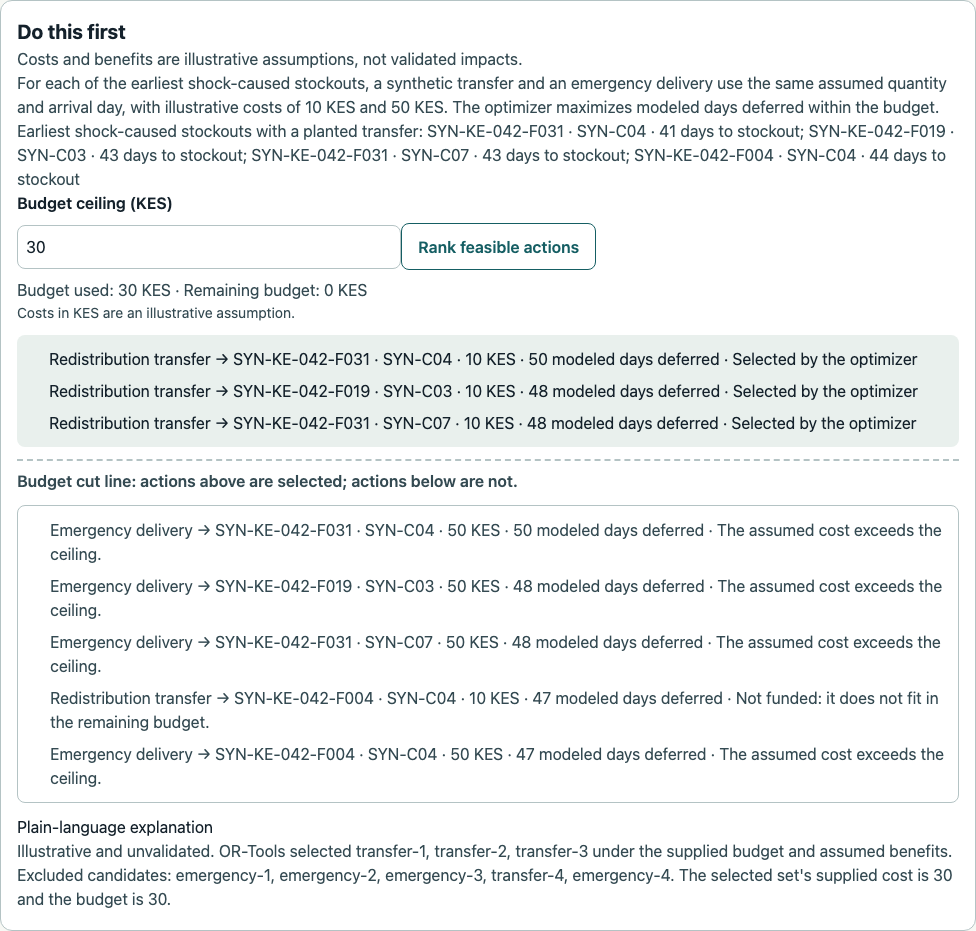
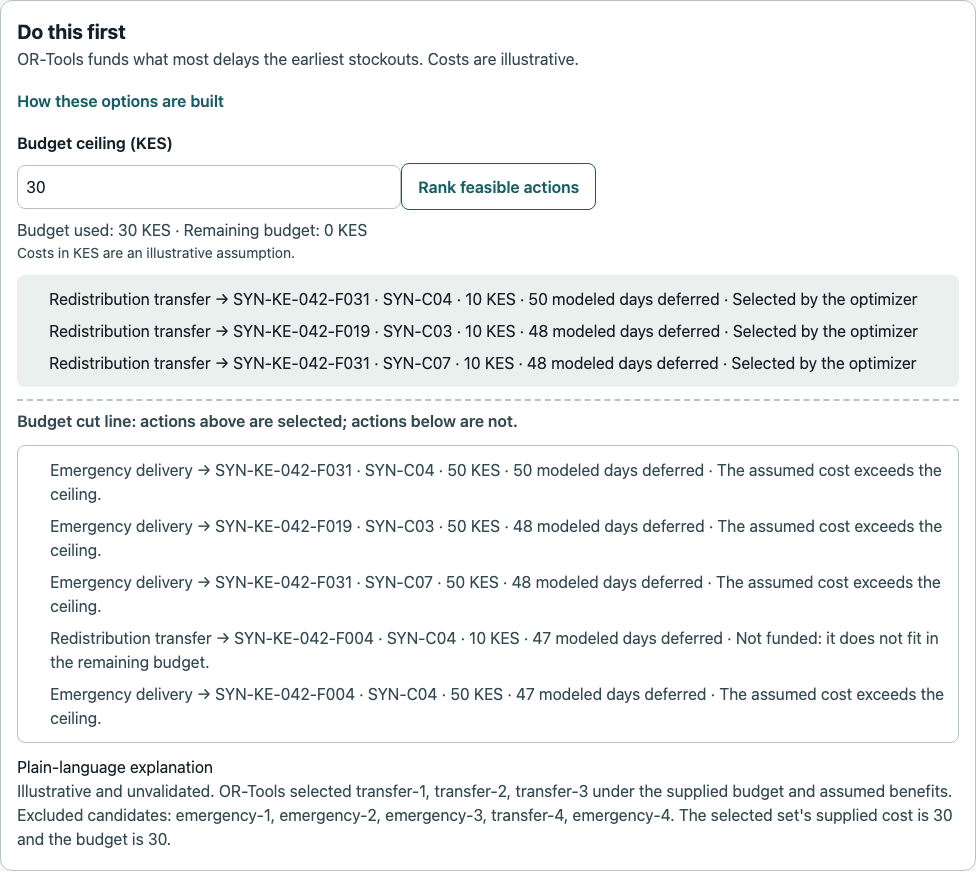
test: update browser checks and README for the new risk cutoffs

Changed region(s): [[0.0, 0.031, 0.9836, 0.992]]

diff --git a/apps/web/tests/e2e/kisumu.spec.ts b/apps/web/tests/e2e/kisumu.spec.ts
@@ -25,7 +25,7 @@ test("Kisumu map follows the selected synthetic scenario", async ({
   );
   await expect(
     page.getByRole("region", { name: "Illustrative stockout risk" }),
-  ).toContainText("8–30 days");
+  ).toContainText("46–52 days");
   await page
     .getByRole("heading", { name: "Facility locations are synthetic." })
     .scrollIntoViewIfNeeded();
@@ -52,7 +52,7 @@ test("Kisumu map follows the selected synthetic scenario", async ({
   );
   await expect(watch).toHaveAttribute(
     "aria-label",
-    /Watch · 26 days to stockout/,
+    /Critical · 26 days to stockout/,
     {
       timeout: 30000,
     },

diff --git a/docs/PROGRESS.md b/docs/PROGRESS.md
@@ -10,6 +10,8 @@ Gitleaks v8.30.1 via Docker scanned 113 commits across all refs and a copy of tr
 
 ## Phase 3: Frontend — current
 
+- Phase 3 risk cutoffs, 2026-11-08 (commits `95b8384`…): measured three candidates on real version 5 runs (seed 42) at 0/20/40/100%; none met the user's criteria (Stable at 40% was 3 or fewer). The user approved Critical ≤45, Watch 46–52, Stable >52, which gives 2/0/38, 2/5/33, 10/18/12 and 40/0/0 Critical/Watch/Stable. `RISK_THRESHOLDS` remains the only definition; the legend adds that labels are relative to the 90-day horizon and the cutoffs were tuned for readability and are not a standard, keeping “illustrative thresholds, not clinical or operational standards”. Facilities in the run's pre-shock or no-shock stockouts (F001, F003) show “Already short before the shock” in the marker tooltip and facility panel. The map fits all markers with padding that clears the zoom and attribution controls and refits on resize (before: five markers at 1280 px sat under the attribution). The “Do this first” intro is two lines at 390 px and one line from 768 px, with assumptions and targets under “How these options are built”; ranked-panel placeholder heights were re-measured, adding a 1280 px step. Vitest 113 passed. After `demo-down.sh` and `demo-up.sh` on the new build: **Playwright 56 tests**, 53 passed in the full run and the 3 that failed on HTTP 429 rate limits passed on rerun (new checks: every marker inside the map and clear of controls at four widths; intro within two lines). **Lighthouse page load:** `/` and `/kisumu` 1.00 performance, 1.00 accessibility, 0.96 best practices. **Interactive flow (one run):** performance 1.00, CLS 0.001, TBT 30 ms, INP 100 ms. The rendered map at 40% counted 10 Critical, 18 Watch and 12 Stable markers, matching the backend computation. README screenshots recaptured (ranked fix, shock card, mobile tour, new map at 40%) and numbers updated. Open: markers within a cluster overlap at county zoom, so the map shows about seven visible markers; the full suite now exceeds the 600-per-minute demo limit at times; Swahili strings for the new labels need review. Session left running at http://localhost:3300/.
+
 - Phase 3: changed the shared illustrative risk cutoffs (`RISK_THRESHOLDS`, the only definition; legend and marker tooltips derive from it) to Critical ≤45 days, Watch 46–75, Stable >75, keeping the “illustrative thresholds, not clinical or operational standards” wording; data assumptions updated. Vitest 109 passed with boundary tests at 45/46/75/76 and the Swahili legend. **Spread check on real version 5 backend runs** (seed 42, classified with the app's `risksForRun`): 0% — 2 Critical, 38 Stable; 20% — 2 Critical, 17 Watch, 21 Stable; 40% — 10 Critical, 28 Watch, 2 Stable; 100% — 40 Critical. 0% is not all Stable because the planted pre-shock cases are Critical by design (SYN-KE-042-F001 opens with 0 units of SYN-C01; SYN-KE-042-F003 runs out of SYN-C01 on day 6). At 40% only 2 of 40 facilities stay Stable. Reported to the user before continuing; map bounds, the shorter “Do this first” intro, Playwright, Lighthouse and README screenshots are on hold pending their decision.
 
 - Version 5 end-to-end check, 2026-11-08: stopped the user's demo session with the user's permission, started the rebuilt worker, ran `scripts/demo-up.sh` with the rebuilt API, and seeded county generator version 5 (seed 42; 47 planning and 1 pilot snapshots created; older versions remain). The proxy served four planted routes with the first on SYN-KE-042-F031 · SYN-C04. **Playwright 48/48** at four viewports after one data-driven expectation update: at a 100% shock, facility 004 is still Watch but now runs out on day 26 (was day 30 with version 4). **Lighthouse page load:** `/` and `/kisumu` performance 1.00, accessibility 1.00, best practices 0.96. **Interactive ranked flow (one run):** timespan performance 1.00, best practices 0.95, CLS 0.001, TBT 0 ms, INP 30 ms; end snapshot accessibility 1.00, best practices 1.00. Recaptured the ranked-fix, shock-summary and mobile-tour README screenshots from this session; README numbers (211 vs 2, 209 shock-caused, first on day 41, busiest days 71–77, 30/100/5 KES outcomes) were checked against the real backend. The session was left running for the user's review.

diff --git a/README.md b/README.md
@@ -34,6 +34,8 @@ All screens show synthetic data; every number is illustrative and unvalidated.
 | Funding trace: 100,000 KES approved, not released, 90 days | Shock summary at 40%: first stockout and busiest week |
 | ![Guided demo on a phone](docs/screenshots/readme-tour-mobile-390.png) | ![Bin-card capture awaiting human confirmation](docs/screenshots/readme-capture-confirm-390.png) |
 | Guided demo at 390 px | Bin-card capture: nothing is saved until “Confirm and save” |
+| ![Kisumu facility map at a 40% shock with the risk legend](docs/screenshots/readme-map-40-1280.png) | |
+| Facility map at 40%: 10 Critical, 18 Watch, 12 Stable (overlapping markers per cluster) | |
 
 ## Local quickstart
 
@@ -67,8 +69,8 @@ The health response identifies the synthetic-data policy. API documentation is a
 Start at `http://localhost:3300/` and press **Try the 3-minute demo**. Each step has a caption, **Back**, **Next step** and **Exit demo**; Escape also exits. The demo only navigates, applies the 40% shock, presses Rank once and switches to the facility role for capture; everything shown comes from the normal screens.
 
 1. **National overview (≈20 s).** “Forty-seven counties on a schematic grid, not a map. Every value is synthetic and illustrative.”
-2. **Kisumu pilot (≈20 s).** “Kisumu is the only facility-level pilot: forty invented facilities at invented locations. Risk uses shape and text, not only color.”
-3. **Apply a 40% shock (≈20 s).** “Donor logistics support drops by 40% and the county model reruns.”
+2. **Kisumu pilot (≈20 s).** “Kisumu is the only facility-level pilot: forty invented facilities at invented locations. With no shock, 38 are Stable; the two Critical ones are labeled ‘Already short before the shock’. Risk uses shape and text, not only color.”
+3. **Apply a 40% shock (≈20 s).** “Donor logistics support drops by 40% and the county model reruns: 10 facilities are now Critical, 18 Watch and 12 Stable.”
 4. **First stockout (≈30 s).** “A one-line summary: at 40%, 211 stockouts against 2 with no shock, 209 caused by the shock. The first is SYN-KE-042-F031 running out of SYN-C04 on day 41; the most fall in days 71–77. The full order is one click away. Act on the earliest first.”
 5. **Funding trace (≈30 s).** “One synthetic flow: 100,000 KES approved but not released, waiting 90 days.”
 6. **Ranked fix (≈40 s).** “For each of the four earliest shock-caused stockouts, OR-Tools compares a 10 KES transfer from a nearby facility with a 50 KES emergency delivery, maximizing modeled days deferred within a 30 KES ceiling. It funds three transfers; the fourth sits below the cut line because it no longer fits the remaining budget, and every emergency delivery costs more than the ceiling. Costs are assumptions, and the explanation only restates the optimizer's result.”
@@ -90,6 +92,7 @@ See [agent rules](AGENTS.md), [current progress](docs/PROGRESS.md), [design appr
 - **Language.** Swahili strings, and the English-only optimizer explanation, need native-speaker review.
 - **No production sign-in.** The demo uses a server-side proxy with a privileged synthetic token, allowed only in local or staging environments behind external access control.
 - **Risk cutoffs are tuned, not a standard.** Map labels use Critical within 45 days, Watch 46–52 and Stable beyond 52. These cutoffs were tuned to make this synthetic scenario readable, are relative to the 90-day simulation horizon, and are not a standard. A facility takes the status of its worst commodity.
+- **Map markers overlap.** Each invented cluster holds five or six facilities within about 300 m, so at county zoom their markers stack and only the top one is visible; zoom in or use the facility list.
 - **Performance and design gaps.** The interactive Lighthouse flow meets its performance budget. Its layout shift ranged from 0.006 to 0.203 in earlier runs; the latest run, after the shock card change, measured 0.001, but one run does not show the issue is resolved. The flow is not in CI. Bottom navigation, several design states and screenshot review against the approved design are outstanding. See [progress](docs/PROGRESS.md) and [Phase 3 notes](docs/phases/3.md).
 
 ## Next steps

diff --git a/CHANGELOG.md b/CHANGELOG.md
@@ -1,5 +1,7 @@
 # Changelog
 
+- Updated browser checks, Lighthouse results and README screenshots for the new risk cutoffs; added a facility-map screenshot at 40%.
+
 - Shortened the “Do this first” intro to two lines and moved the cost assumptions and targeted stockouts behind “How these options are built”.
 
 - The facility map fits all markers with padding that clears the zoom and attribution controls, and refits when it is resized.
